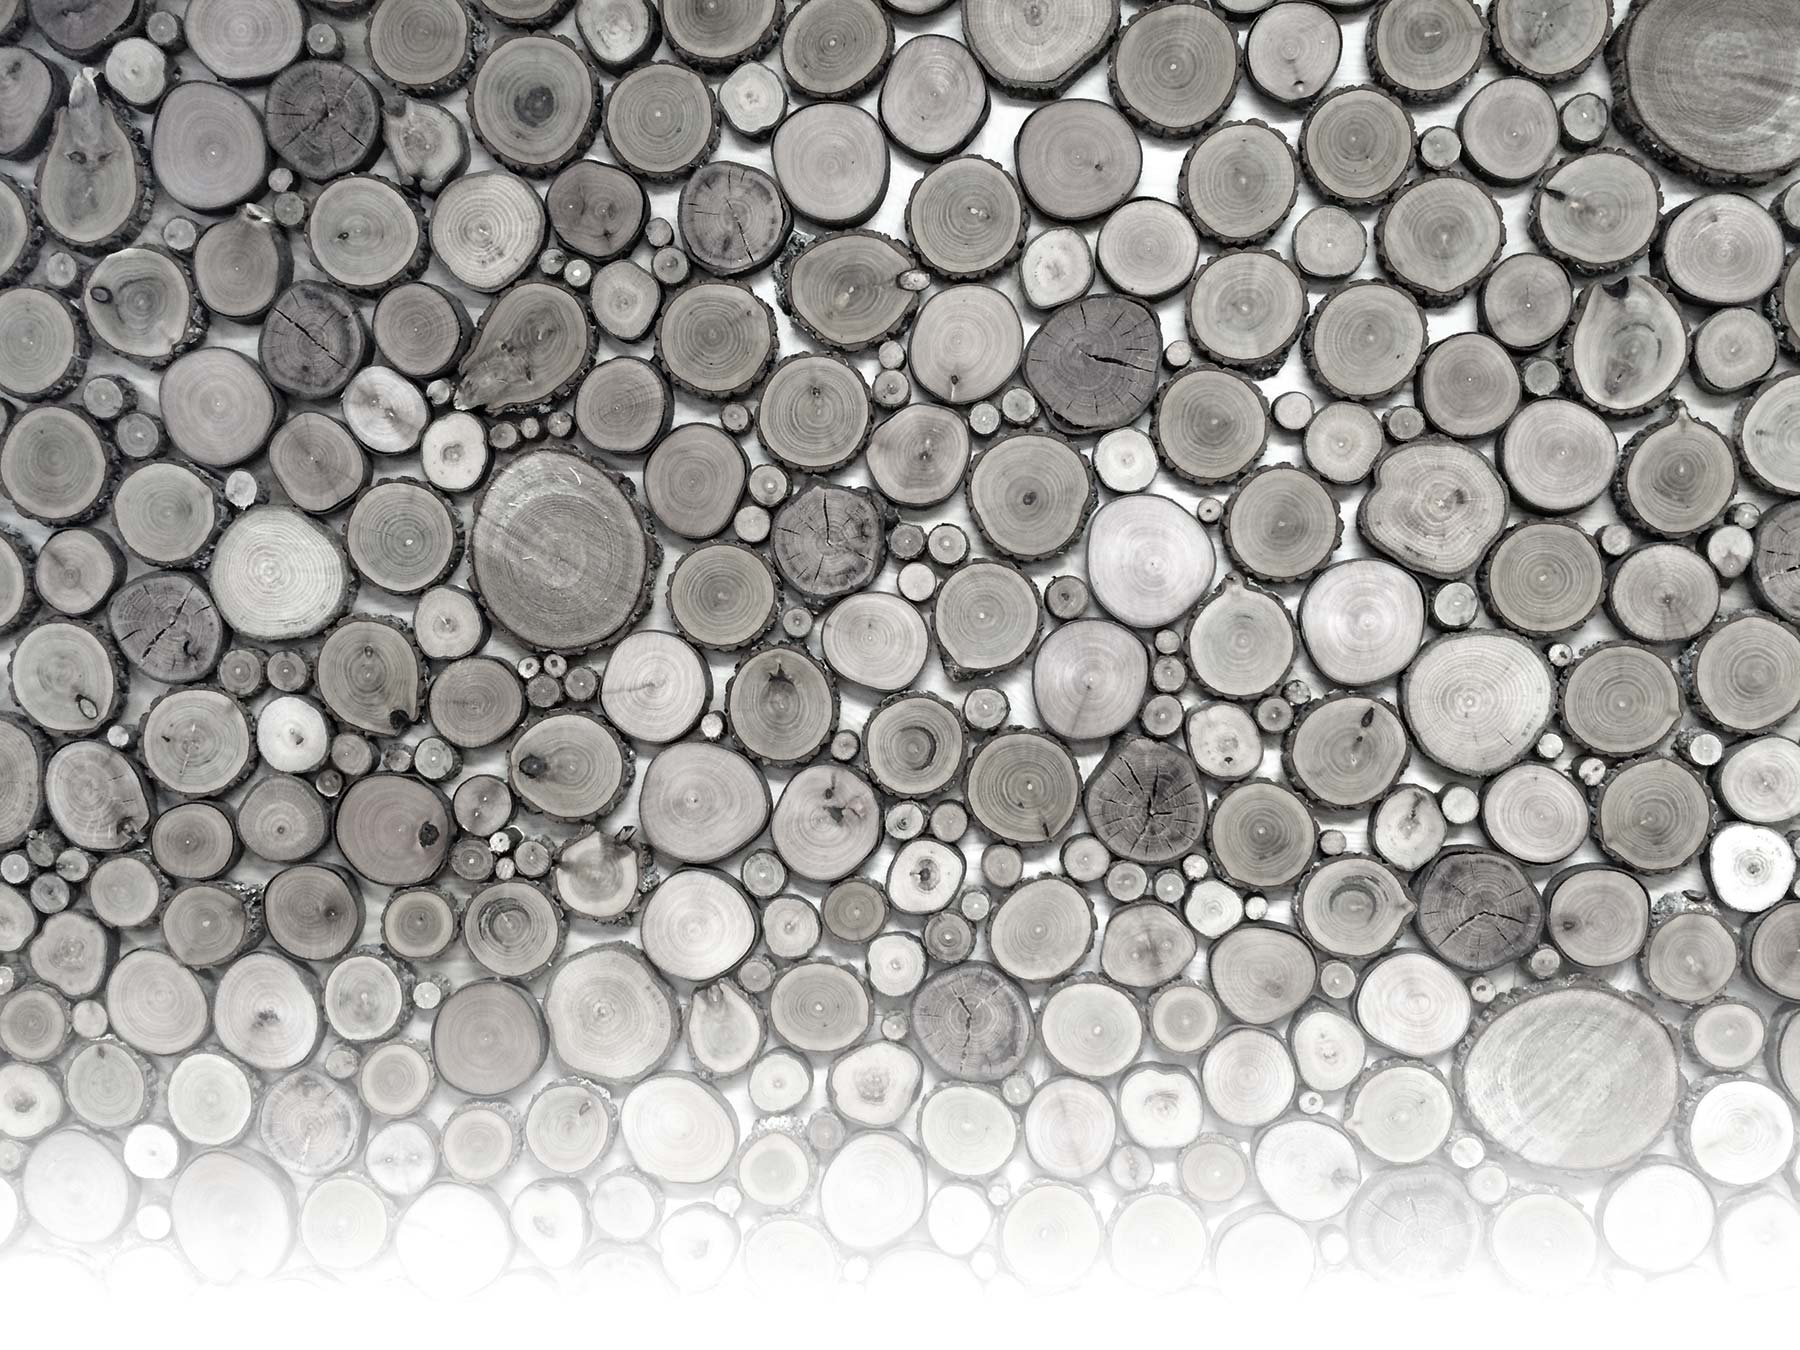
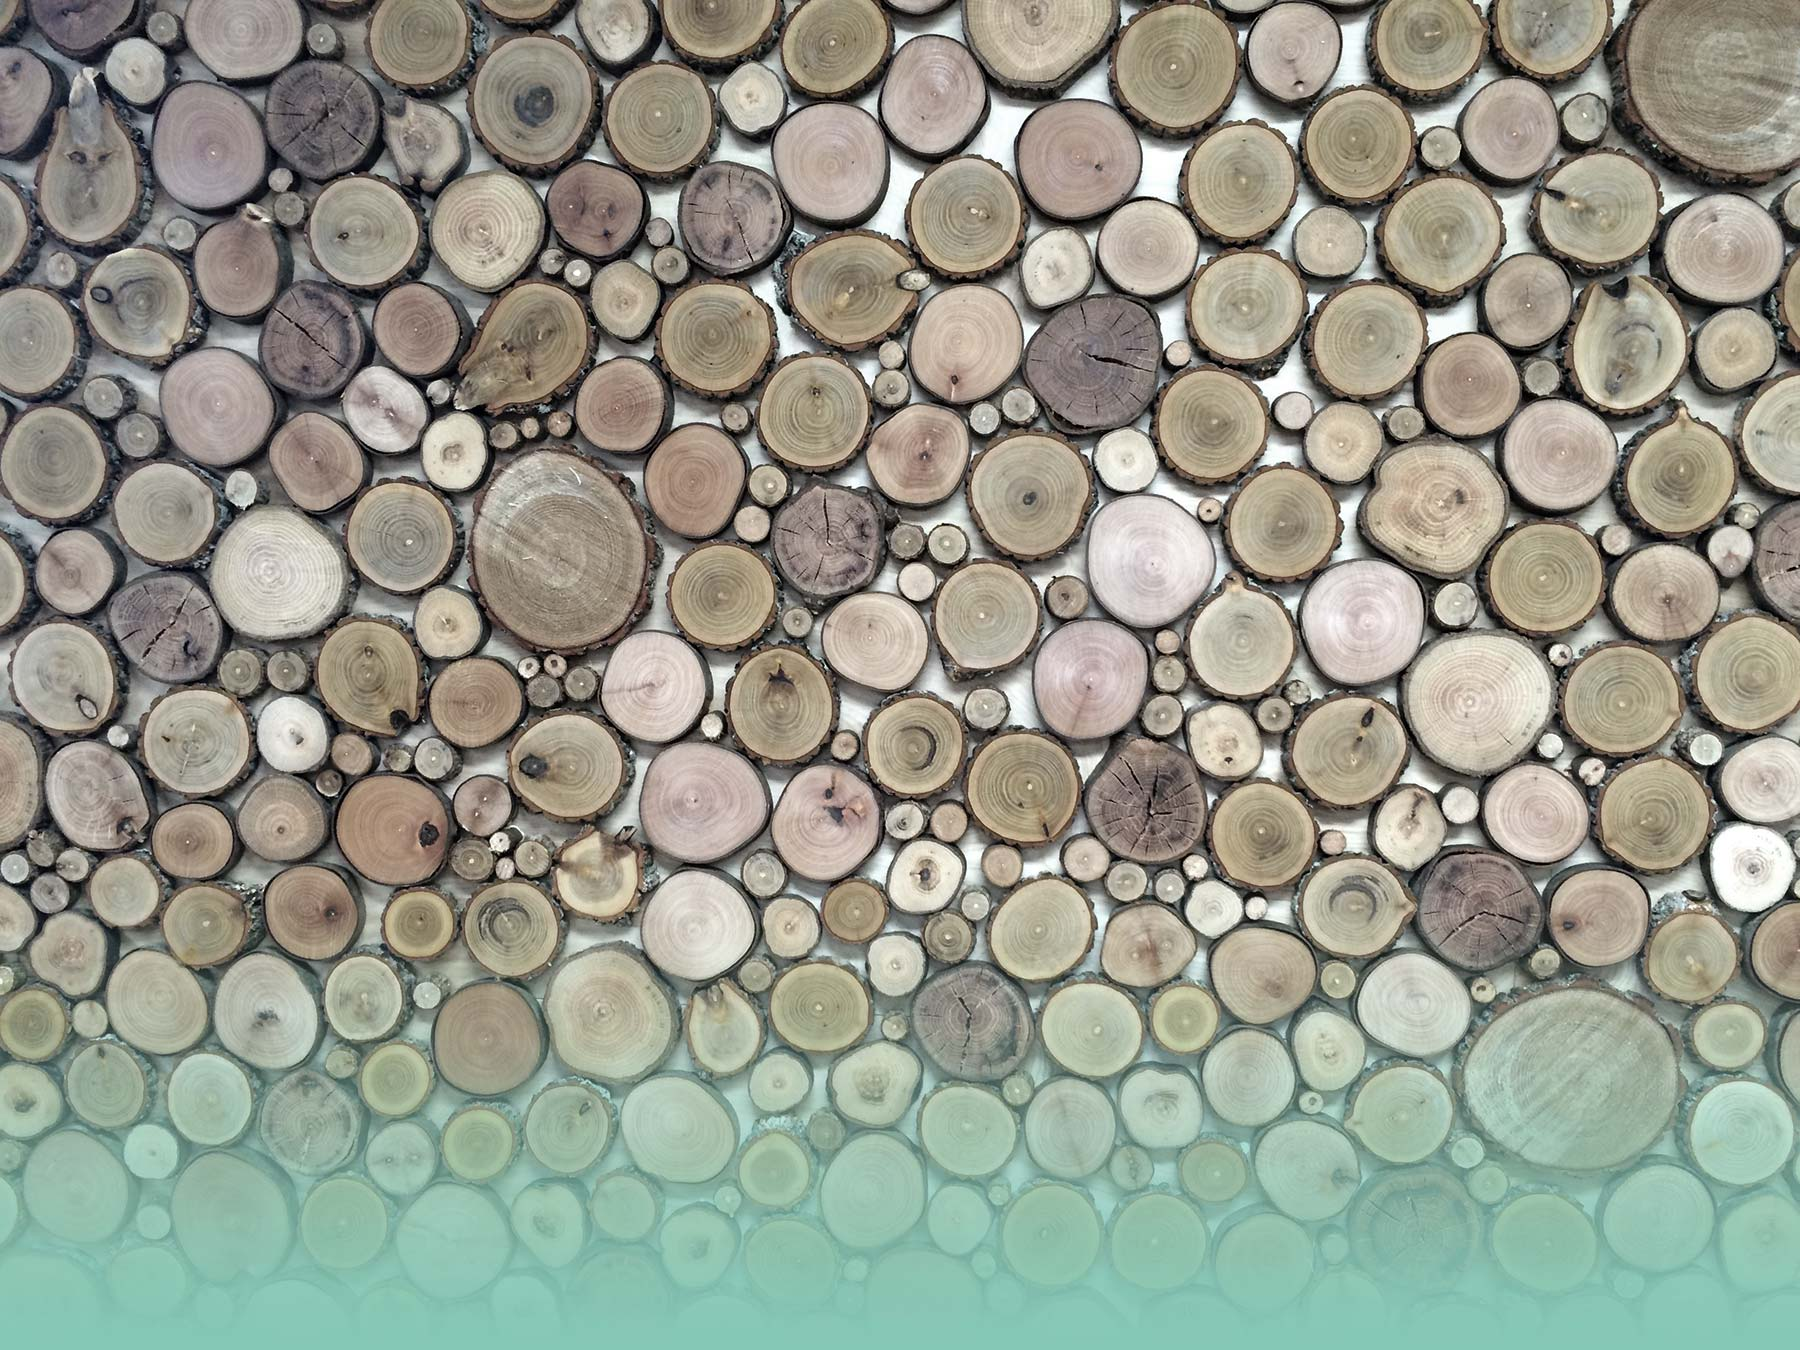
Incoprated client feedback, to page layouts

Changed region(s): [[0.0, 0.6533, 1.0, 1.0]]

diff --git a/assets/styles/layouts/pages/_contact.scss b/assets/styles/layouts/pages/_contact.scss
@@ -1,7 +1,7 @@
 /*--------- Contact form -----------*/
 
 .contact {
-	background: #ffffff;
+	background: #85C8B6;
 	background-image: url(../images/wood-bg.jpg);
 	background-size: contain;
 	background-repeat: no-repeat;
@@ -41,11 +41,12 @@
 
 
 	.main {
-		max-width: 600px;
+		max-width: 700px;
 		margin: 0 auto;
 		float: none;
 		border-radius: 10px;
-		background: rgba(255, 255, 255, 0.75);
+		background: rgba(255, 255, 255, 0.86);
+		padding-bottom: 15px;
 
 
 		form label {
@@ -58,7 +59,7 @@
 		}
 
 		form {
-			background: $blue;
+			background: #7e7e7e;
 			padding: 1em;
 			border-radius: 10px;
 		}
@@ -137,7 +138,7 @@
 		text-transform: uppercase;
 		font-weight: 100;
 		font-size: 2em;
-		margin-bottom: 4em;
+		margin-bottom: 2em;
 		letter-spacing: 0.2em;
 		padding: 10px 16px;
 		line-height: 1.33;
@@ -147,6 +148,10 @@
 
 	.contact-submit input:hover{
 		background: $brand-primary;
+	}
+
+	footer {
+		margin-top: 6em;
 	}
 
 } // .contact

diff --git a/assets/styles/layouts/_header.scss b/assets/styles/layouts/_header.scss
@@ -8,8 +8,11 @@
 
 	.navbar-header .navbar-brand{
 		@media (max-width:$screen-sm){							padding-top: 10px;}
-		@media (min-width:768px) and (max-width:830px){ 	padding-top: 15px;}
-		@media (min-width:830px) and (max-width:992px){ 	padding-top: 18px;}
+		@media (min-width:768px) and (max-width:830px){ 	padding-top: 8px;
+			padding-left: 5px;
+		}
+		@media (min-width:830px) and (max-width:992px){ 	padding-top: 10px;
+		}
 		padding: 0;
 		@media (min-width:$screen-md){
 			transition: margin 2s;
@@ -44,7 +47,9 @@
 	}
 	.navbar-right {
 		@media (max-width:$screen-sm){							margin-top: 10px;}
-		@media (min-width:768px) and (max-width:830px){ 	margin-top: 15px;}
+		@media (min-width:768px) and (max-width:830px){
+			margin-top: 15px;
+		}
 		@media (min-width:830px) and (max-width:992px){ 	margin-top: 35px;}
 	@media (min-width:$screen-md){
 		margin-top: 30px;

diff --git a/assets/styles/layouts/pages/_home.scss b/assets/styles/layouts/pages/_home.scss
@@ -100,13 +100,13 @@
 			margin-top: 1em;
 			position: absolute;
 			top:320px;
-			left: 75px;
+			left: 145px;
 			z-index: 1025;
 		}
 		@media (min-width:$screen-md){
 			position: absolute;
 			top:420px;
-			left: 150px;
+			left: 215px;
 			z-index: 1025;
 			h1 {
 				line-height: 1.2em;
@@ -124,7 +124,7 @@
 		@media (min-width:$screen-lg){
 			position: absolute;
 			top:505px;
-			left: 250px;
+			left: 315px;
 			z-index: 1025;
 
 
@@ -144,17 +144,18 @@
 			padding: 1em;
 		}
 		.promo {
+			margin: 1em 0;
 			margin-bottom: 1em;
 			@media (min-width:$screen-sm){
 				margin-bottom: 2em;
 			}
 			@media (min-width:$screen-lg){
-				margin: 1em 0;
+
 			}
 		}
 
 		@media (min-width:$screen-sm){
-			margin-top: 175px;
+			margin-top: 145px;
 		}
 		@media (min-width:$screen-md){
 			margin-top: 135px;

diff --git a/front-page.php b/front-page.php
@@ -43,31 +43,31 @@
 
 		<img class="img-responsive"  src="<?php the_field('divider'); ?>" alt="divider line">
 
-		<h2><b><?php the_field('call_ahead');?></b></h2>
+		<h2><?php the_field('call_ahead');?> <b><?php the_field('phone_number');?></b></h2>
 
-		<h2><?php the_field('phone_number');?></h2>
+		<h2></h2>
 
-		<h2><b><?php the_field('open');?></b></h2>
+		<h2><?php the_field('open');?> <?php the_field('hours');?></h2>
 
-		<h2><b><?php the_field('hours');?></b></h2>
+		<h2></h2>
 
 	</aside>
 </section>
 
 <section class="home-promos clearfix">
-	<div class="promo col-sm-6 col-md-6 col-lg-3">
+	<div class="promo col-sm-6 col-md-3 col-lg-3">
 		<a href="<?php the_field('cafe_link'); ?>"><img class="img-responsive"  src="<?php the_field('cafe'); ?>" alt="cafe"></a>
 	</div>
 
-		<div class="promo col-sm-6 col-md-6 col-lg-3">
+		<div class="promo col-sm-6 col-md-3 col-lg-3">
 			<a href="<?php the_field('ice_cream_link'); ?>">	<img class="img-responsive"  src="<?php the_field('ice_cream'); ?>" alt="ice-cream"></a>
 		</div>
 
-	<div class="promo col-sm-6 col-md-6 col-lg-3">
+	<div class="promo col-sm-6 col-md-3 col-lg-3">
 		<a href="<?php the_field('market_link'); ?>"><img class="img-responsive"  src="<?php the_field('market'); ?>" alt="market"></a>
 	</div>
 
-		<div class="promo col-sm-6 col-md-6 col-lg-3">
+		<div class="promo col-sm-6 col-md-3 col-lg-3">
 			<a href="<?php the_field('gift_link'); ?>"><img class="img-responsive"  src="<?php the_field('gifts'); ?>" alt="gifts"></a>
 		</div>
 

diff --git a/templates/header.php b/templates/header.php
@@ -7,7 +7,7 @@
                 <span class="icon-bar"></span>
                 <span class="icon-bar"></span>
             </button>
-			  <a class="navbar-brand" href="<?= esc_url(home_url('/')); ?>"><?php // bloginfo('name'); ?> <img class="img-responsive hidden-lg" src="<?php bloginfo('template_directory'); ?>/dist/images/sm-logo.png"><img class="img-responsive logo-full visible-lg" src="<?php bloginfo('template_directory'); ?>/dist/images/sm-logo-full.png"></a>
+			  <a class="navbar-brand" href="<?= esc_url(home_url('/')); ?>"><?php // bloginfo('name'); ?> <img class="img-responsive hidden-sm hidden-md hidden-lg" src="<?php bloginfo('template_directory'); ?>/dist/images/sm-logo.png"><img class="img-responsive logo-full visible-sm visible-md visible-lg" src="<?php bloginfo('template_directory'); ?>/dist/images/sm-logo-full.png"></a>
         </div>
 
         <nav class="collapse navbar-collapse navbar-right" role="navigation">
